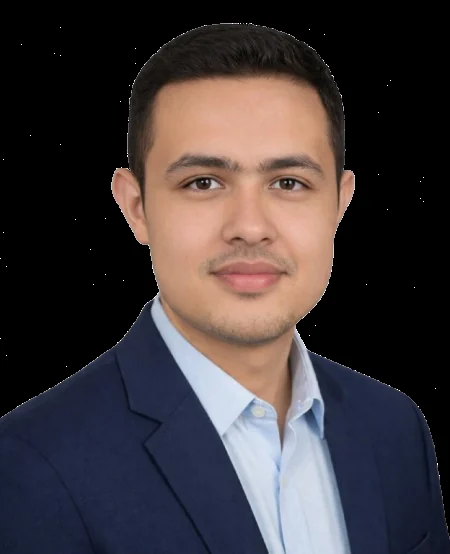
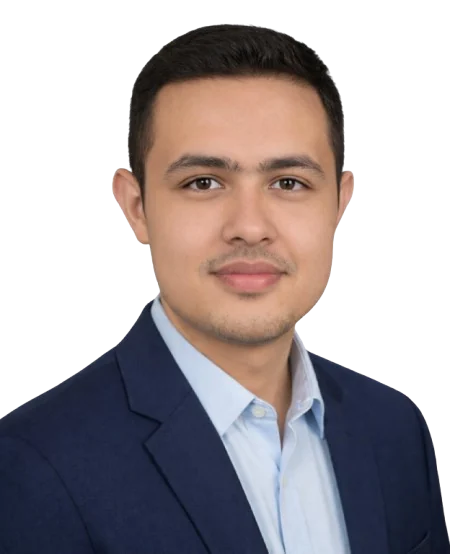
Free the portrait from its card, drop screenshot chrome, reorder projects
The portrait's black background was a bug: the webp converted from
"Manoj Thapa Professional.png" was written as RGB, which flattened the
source PNG's alpha to black. Re-encoded as RGBA so the cutout is a cutout,
then removed the dark card, its grid overlay and the ring it sat in. A
bottom mask hides the hard edge where the source image ends.

Project screenshots lose their border and the accent-tinted drop shadow;
the window chrome bar and the hover lift stay.

NeuroArc moves to the end at the user's request, so the order is no longer
strictly by date: FruitGuard, Planck, CogniGraph, then NeuroArc. Accents
still reassigned positionally to keep the light-to-deep cascade.

Mentees drop from 12 to 5. At 12, "one-to-one, every week" multiplied out
to roughly 300 sessions alongside an MSc; at 5 the claim survives the
arithmetic. LinkedIn still says 12 and needs the same edit.

diff --git a/src/data/portfolioData.js b/src/data/portfolioData.js
@@ -76,30 +76,10 @@ export const portfolioData = {
             link: "https://huggingface.co/spaces/manojthapaa/fruit-guard-ai"
         },
         {
-            title: "NeuroArc",
-            screenshot: neuroarcShot,
-            kicker: "AI job application assistant",
-            accent: "var(--p2)",
-            date: "Nov 2025 – Dec 2025",
-            metric: { value: "Verified", label: "fit scores built only from evidence found in the CV text" },
-            subMetrics: [
-                { value: "PDF · DOCX", label: "CV parsing with OCR fallback" },
-                { value: "Live", label: "UK jobs from the Reed API" }
-            ],
-            description: [
-                "An assistant that parses a CV (**PDF or DOCX**, with an OCR fallback), pulls live UK jobs from the **Reed API**, scores CV-to-job fit and exports a tailored CV as a PDF.",
-                "The design problem here is evidence: an LLM asked whether a candidate fits will cheerfully invent the proof. So the model does not score. It returns requirement–evidence pairs as **structured JSON**, the evidence has to be an exact phrase from the CV, and code drops any requirement whose phrase is not in the document before the weighted score is computed.",
-                "It is not airtight, and the README says so: the check proves the evidence came from the CV, not that it is about the skill being claimed. I built a stricter rule and reverted it, because it dropped real skills whenever the CV and the advert used different words for the same thing, like Postgres and PostgreSQL."
-            ],
-            tags: ["FastAPI", "React", "Groq API", "OCR"],
-            github: "https://github.com/iammanoj807/NeuroArc",
-            link: "https://huggingface.co/spaces/manojthapaa/NeuroArc"
-        },
-        {
             title: "Planck AI",
             screenshot: planckShot,
             kicker: "Agentic research assistant",
-            accent: "var(--p3)",
+            accent: "var(--p2)",
             date: "Sep 2025 – Nov 2025",
             metric: { value: "30/30", label: "tasks completed under fault injection" },
             subMetrics: [
@@ -120,7 +100,7 @@ export const portfolioData = {
             title: "CogniGraph",
             screenshot: cognigraphShot,
             kicker: "Graph RAG explorer",
-            accent: "var(--p4)",
+            accent: "var(--p3)",
             date: "Jun 2025 – Jul 2025",
             metric: { value: "95%", label: "retrieval hit@3 on the rebuilt set, against 80% for a keyword baseline" },
             subMetrics: [
@@ -136,6 +116,26 @@ export const portfolioData = {
             tags: ["Python", "ChromaDB", "NetworkX", "OCR"],
             github: "https://github.com/iammanoj807/CogniGraph",
             link: "https://huggingface.co/spaces/manojthapaa/CogniGraph"
+        },
+        {
+            title: "NeuroArc",
+            screenshot: neuroarcShot,
+            kicker: "AI job application assistant",
+            accent: "var(--p4)",
+            date: "Nov 2025 – Dec 2025",
+            metric: { value: "Verified", label: "fit scores built only from evidence found in the CV text" },
+            subMetrics: [
+                { value: "PDF · DOCX", label: "CV parsing with OCR fallback" },
+                { value: "Live", label: "UK jobs from the Reed API" }
+            ],
+            description: [
+                "An assistant that parses a CV (**PDF or DOCX**, with an OCR fallback), pulls live UK jobs from the **Reed API**, scores CV-to-job fit and exports a tailored CV as a PDF.",
+                "The design problem here is evidence: an LLM asked whether a candidate fits will cheerfully invent the proof. So the model does not score. It returns requirement–evidence pairs as **structured JSON**, the evidence has to be an exact phrase from the CV, and code drops any requirement whose phrase is not in the document before the weighted score is computed.",
+                "It is not airtight, and the README says so: the check proves the evidence came from the CV, not that it is about the skill being claimed. I built a stricter rule and reverted it, because it dropped real skills whenever the CV and the advert used different words for the same thing, like Postgres and PostgreSQL."
+            ],
+            tags: ["FastAPI", "React", "Groq API", "OCR"],
+            github: "https://github.com/iammanoj807/NeuroArc",
+            link: "https://huggingface.co/spaces/manojthapaa/NeuroArc"
         }
     ],
 
@@ -147,7 +147,7 @@ export const portfolioData = {
             duration: "Aug 2025 \u2013 Jan 2026",
             location: "Birmingham, UK",
             description: [
-                "Mentored **12 MSc Artificial Intelligence students** in Python and machine learning, one-to-one, every week.",
+                "Mentored **5 MSc Artificial Intelligence students** in Python and machine learning, one-to-one, every week.",
                 "The same questions came back week after week, so I built the sessions around the three that blocked people most: getting a working Python environment, debugging a training loop whose loss would not come down, and picking a baseline before picking a model."
             ],
             skills: ["Leadership", "Teaching", "Mentoring", "Python", "Machine Learning", "Technical Communication"]

diff --git a/src/index.css b/src/index.css
@@ -797,32 +797,13 @@ footer {
 }
 
 .portrait-ring {
-  position: absolute;
-  inset: -1.5px;
-  border-radius: 34px;
-  background: var(--border-strong);
+  display: none;
 }
 
 .portrait-card {
   position: absolute;
   inset: 0;
-  border-radius: 32px;
-  overflow: hidden;
-  background:
-    radial-gradient(90% 70% at 50% 25%, var(--portrait-1) 0%, var(--portrait-2) 55%, var(--portrait-3) 100%);
-}
-
-.portrait-card::after {
-  content: '';
-  position: absolute;
-  inset: 0;
-  background-image:
-    linear-gradient(rgba(255, 255, 255, 0.05) 1px, transparent 1px),
-    linear-gradient(90deg, rgba(255, 255, 255, 0.05) 1px, transparent 1px);
-  background-size: 28px 28px;
-  -webkit-mask-image: linear-gradient(180deg, #000 0%, transparent 70%);
-  mask-image: linear-gradient(180deg, #000 0%, transparent 70%);
-  pointer-events: none;
+  background: none;
 }
 
 .portrait-glow {
@@ -847,6 +828,9 @@ footer {
   object-position: bottom center;
   user-select: none;
   -webkit-user-drag: none;
+  /* the cutout has a hard bottom edge where the source image ends */
+  -webkit-mask-image: linear-gradient(180deg, #000 90%, transparent 100%);
+  mask-image: linear-gradient(180deg, #000 90%, transparent 100%);
 }
 
 .float-chip {
@@ -1245,16 +1229,13 @@ footer {
 .project-shot {
   display: block;
   border-radius: 12px;
-  border: 1px solid var(--border-strong);
   background: var(--bg-2);
   overflow: hidden;
-  box-shadow: 0 18px 40px -22px color-mix(in srgb, var(--accent) 55%, transparent);
-  transition: transform 0.35s var(--ease), border-color 0.35s var(--ease);
+  transition: transform 0.35s var(--ease);
 }
 
 .project-shot:hover {
   transform: translateY(-3px);
-  border-color: color-mix(in srgb, var(--accent) 55%, var(--border-strong));
 }
 
 .project-shot-bar {
